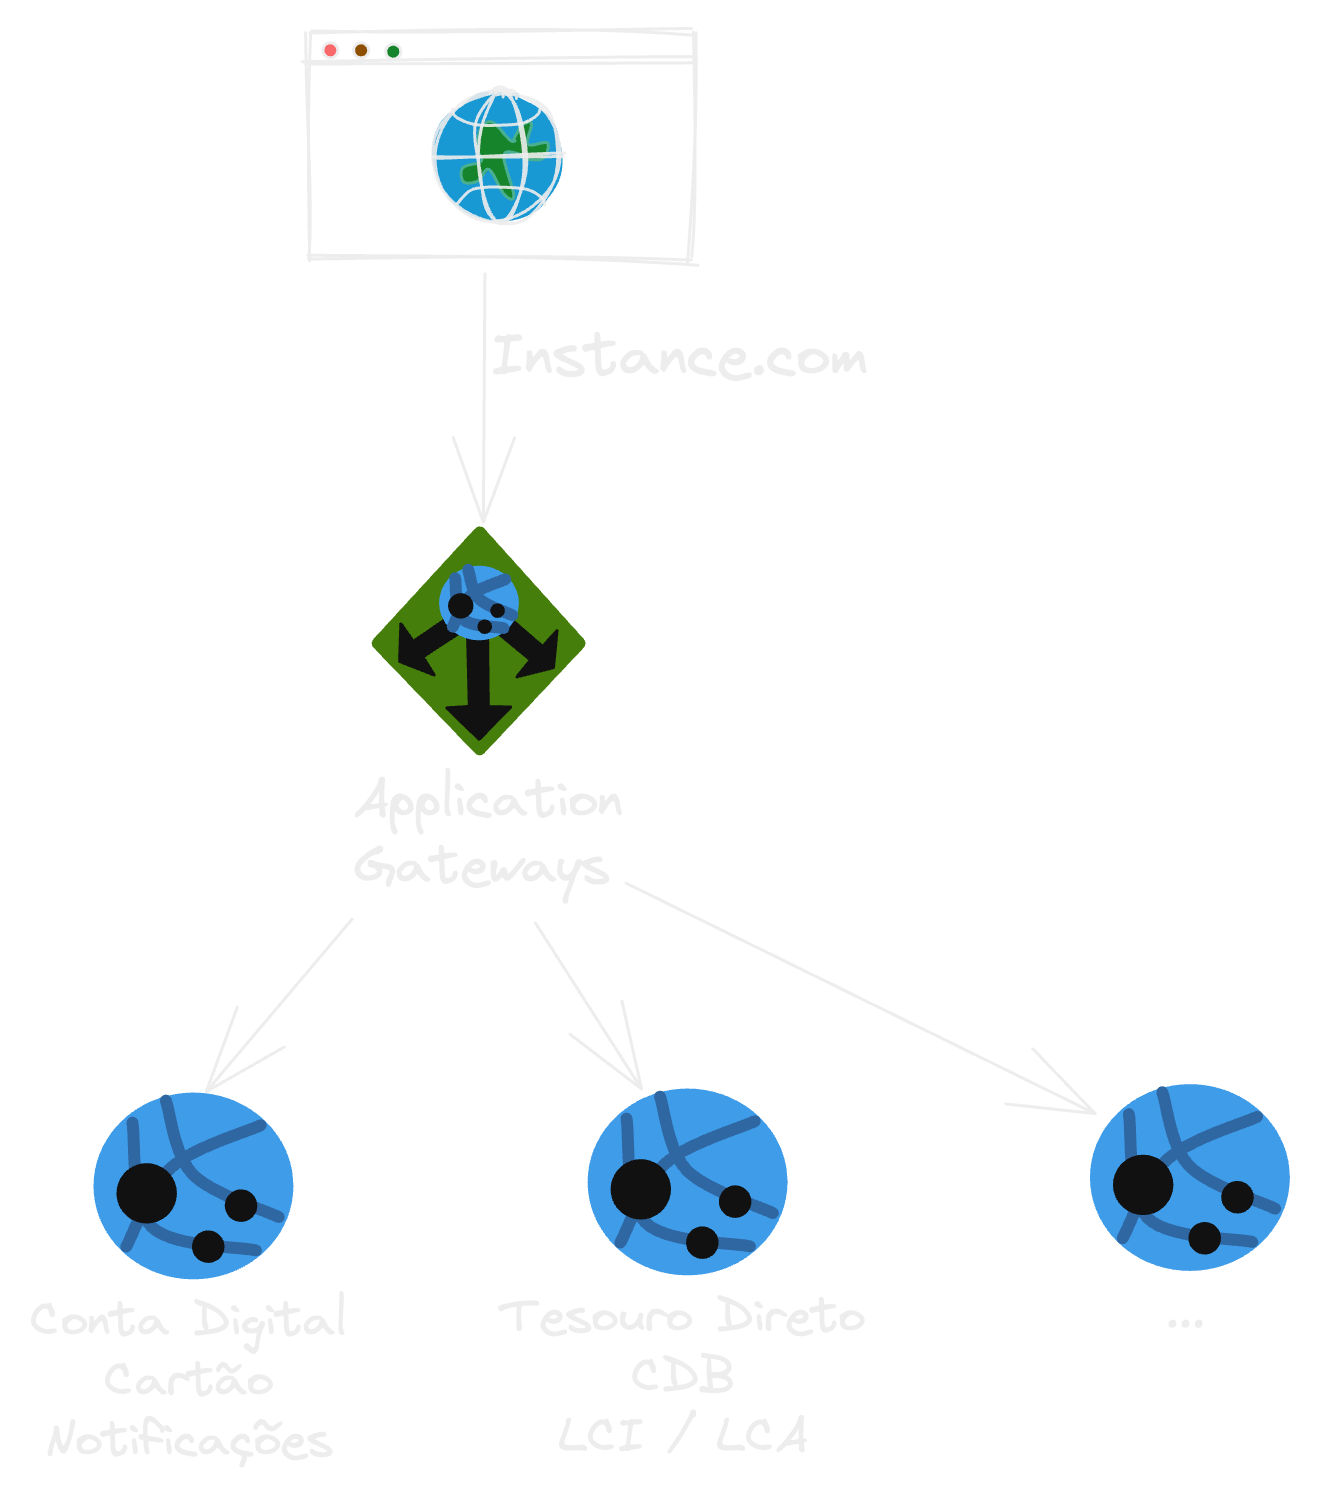
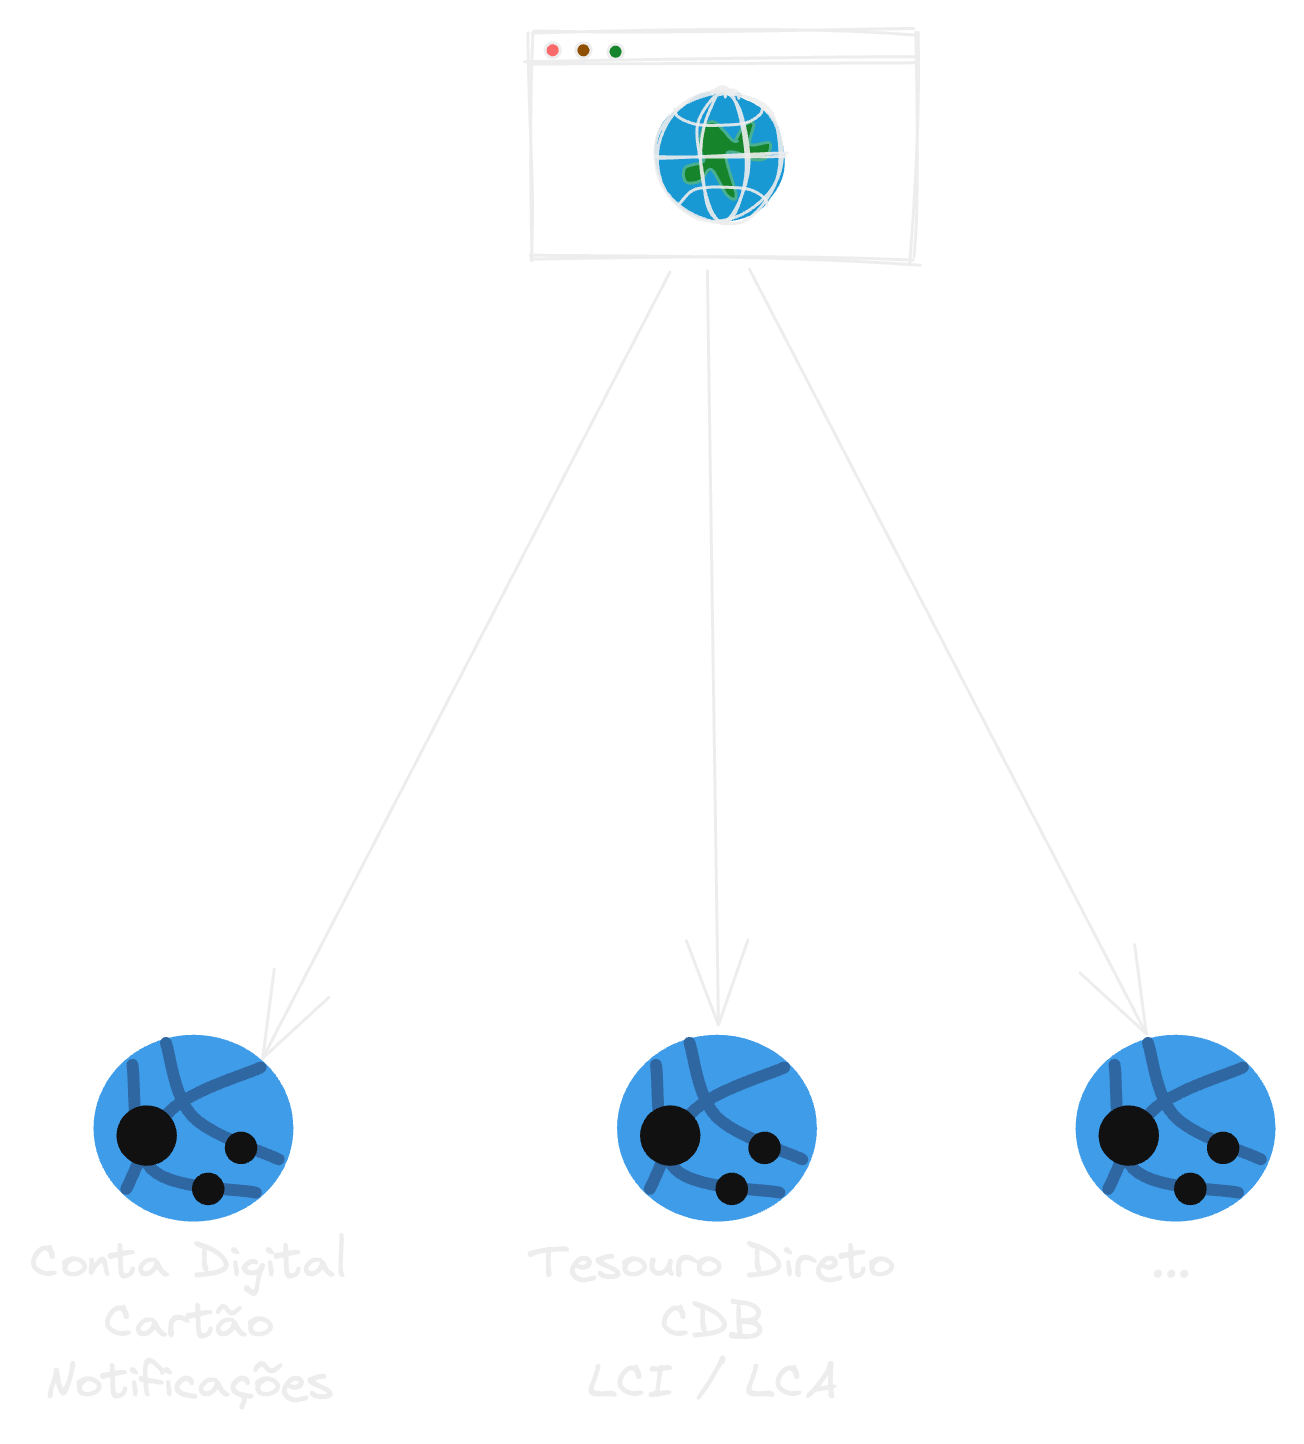
Slides de grandes serviços

diff --git a/Slides.md b/Slides.md
@@ -89,7 +89,6 @@ Escala de de Sistema
 
 ![-](./Images/monolito-3.png){width=70%}
 
-
 ---
 
 #### Caso de um Moniolito - Como Escalar
@@ -126,6 +125,16 @@ Escala de de Sistema
 
 ---
 
+### API Gatway / Management
+
+![-](./Images/apiGatway.png){width=53%}
+
+---
+
+### API Gatway vs. Management
+
+---
+
 ### Microsserviços
 
 ---
@@ -145,10 +154,6 @@ Escala de de Sistema
 ### Distributed tracing
 
 ![-](https://miro.medium.com/max/1191/1*O4Kb0ToSpFXLxEF4xKPWXA.png)
-
----
-
-### API Gatway
 
 ---
 
